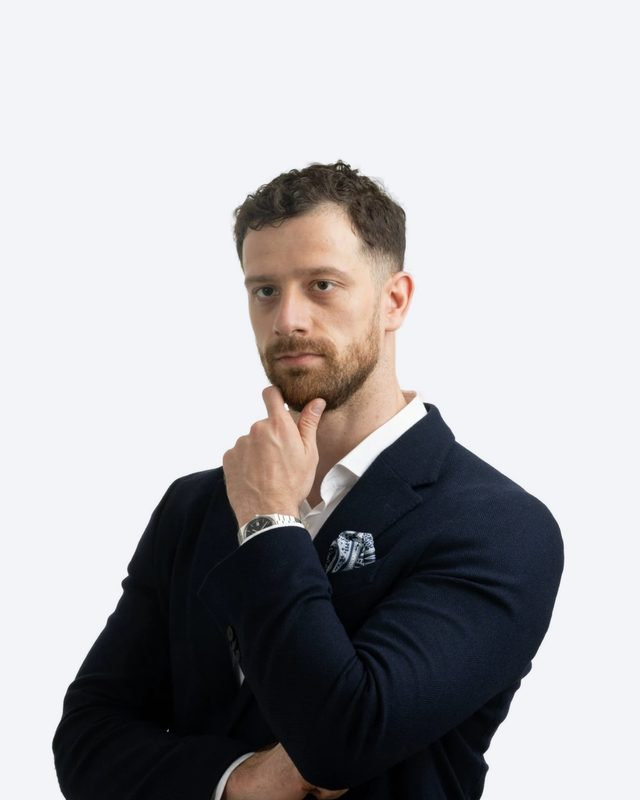
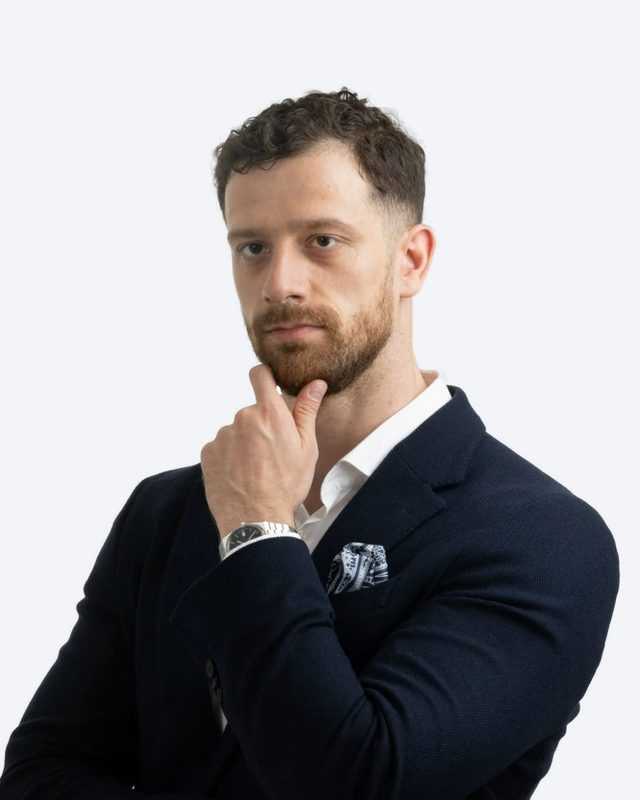
Homepage teaser: Irena, Ivan, Dušan, Nemanja, Vladimir, Tamara; tighter crop on Dušan
Claude-Session: https://claude.ai/code/session_01NK6iCTM26wSrmg8wXCFhQp

diff --git a/index.html b/index.html
@@ -161,14 +161,14 @@
       <h2 data-split>Uči od ljudi koji su već prošli put kojim želiš da ideš</h2>
     </div></div>
     <div class="tiles cols-3 spk-teaser" data-stagger>
-        <a class="tile" href="/predavaci#timo-zimonjic"><img src="assets/img/predavaci/timo-zimonjic.jpg" alt="" loading="lazy"><div class="tile-body"><div class="tile-title spk-tile-name">Timo Zimonjić</div></div></a>
-        <a class="tile" href="/predavaci#nemanja-zivkovic"><img src="assets/img/predavaci/nemanja-zivkovic.jpg" alt="" loading="lazy"><div class="tile-body"><div class="tile-title spk-tile-name">Nemanja Živković</div></div></a>
         <a class="tile" href="/predavaci#irena-cabarkapa"><img src="assets/img/predavaci/irena-cabarkapa.jpg" alt="" loading="lazy"><div class="tile-body"><div class="tile-title spk-tile-name">Irena Čabarkapa</div></div></a>
         <a class="tile" href="/predavaci#ivan-juric"><img src="assets/img/predavaci/ivan-juric.jpg" alt="" loading="lazy"><div class="tile-body"><div class="tile-title spk-tile-name">Ivan Jurić</div></div></a>
+        <a class="tile" href="/predavaci#dusan-stamenkovic"><img src="assets/img/predavaci/dusan-stamenkovic.jpg?v=3" alt="" loading="lazy"><div class="tile-body"><div class="tile-title spk-tile-name">Dušan Stamenković</div></div></a>
+        <a class="tile" href="/predavaci#nemanja-zivkovic"><img src="assets/img/predavaci/nemanja-zivkovic.jpg" alt="" loading="lazy"><div class="tile-body"><div class="tile-title spk-tile-name">Nemanja Živković</div></div></a>
+        <a class="tile" href="/predavaci#vladimir-nikic"><img src="assets/img/predavaci/vladimir-nikic.jpg" alt="" loading="lazy"><div class="tile-body"><div class="tile-title spk-tile-name">Vladimir Nikić</div></div></a>
         <a class="tile" href="/predavaci#tamara-sicevic"><img src="assets/img/predavaci/tamara-sicevic.jpg" alt="" loading="lazy"><div class="tile-body"><div class="tile-title spk-tile-name">Tamara Sićević</div></div></a>
-        <a class="tile" href="/predavaci#kristijan-kadic"><img src="assets/img/predavaci/kristijan-kadic.jpg" alt="" loading="lazy"><div class="tile-body"><div class="tile-title spk-tile-name">Kristijan Kadić</div></div></a>
     </div>
-    <p class="center muted" style="margin-top:36px">Timo Zimonjić, Nemanja Živković, Irena Čabarkapa, Ivan Jurić i još desetak predavača i panelista, 21. i 22. novembra.</p>
+    <p class="center muted" style="margin-top:36px">Irena Čabarkapa, Ivan Jurić, Dušan Stamenković i još desetak predavača i panelista, 21. i 22. novembra.</p>
     <div class="btn-row" style="justify-content:center;margin-top:20px">
       <a class="btn white" href="/predavaci">
         <span class="btn-icon"><svg class="ba" viewBox="-8 -14 116 102" aria-hidden="true"><g transform="translate(22.8 -66.7) scale(1.7)"><path d="M2.5 76C5.5 62 11 56 18 56" fill="none" stroke="currentColor" stroke-width="4.71" stroke-linecap="round"/><polygon fill="currentColor" points="27.41,56 19.65,63.86 12.82,63.86 18.24,58.35 18.24,53.65 12.82,48.14 19.65,48.14"/></g></svg></span>

diff --git a/predavaci.html b/predavaci.html
@@ -194,7 +194,7 @@
           </div>
         </article>
         <article class="spk" id="dusan-stamenkovic">
-          <div class="spk-photo"><img src="assets/img/predavaci/dusan-stamenkovic.jpg?v=2" alt="Dušan Stamenković" width="640" height="800" loading="lazy"></div>
+          <div class="spk-photo"><img src="assets/img/predavaci/dusan-stamenkovic.jpg?v=3" alt="Dušan Stamenković" width="640" height="800" loading="lazy"></div>
           <div class="spk-body">
             <h3 class="spk-name">Dušan Stamenković</h3>
             <p class="spk-role">Osnivač i partner, Prosperaize</p>
